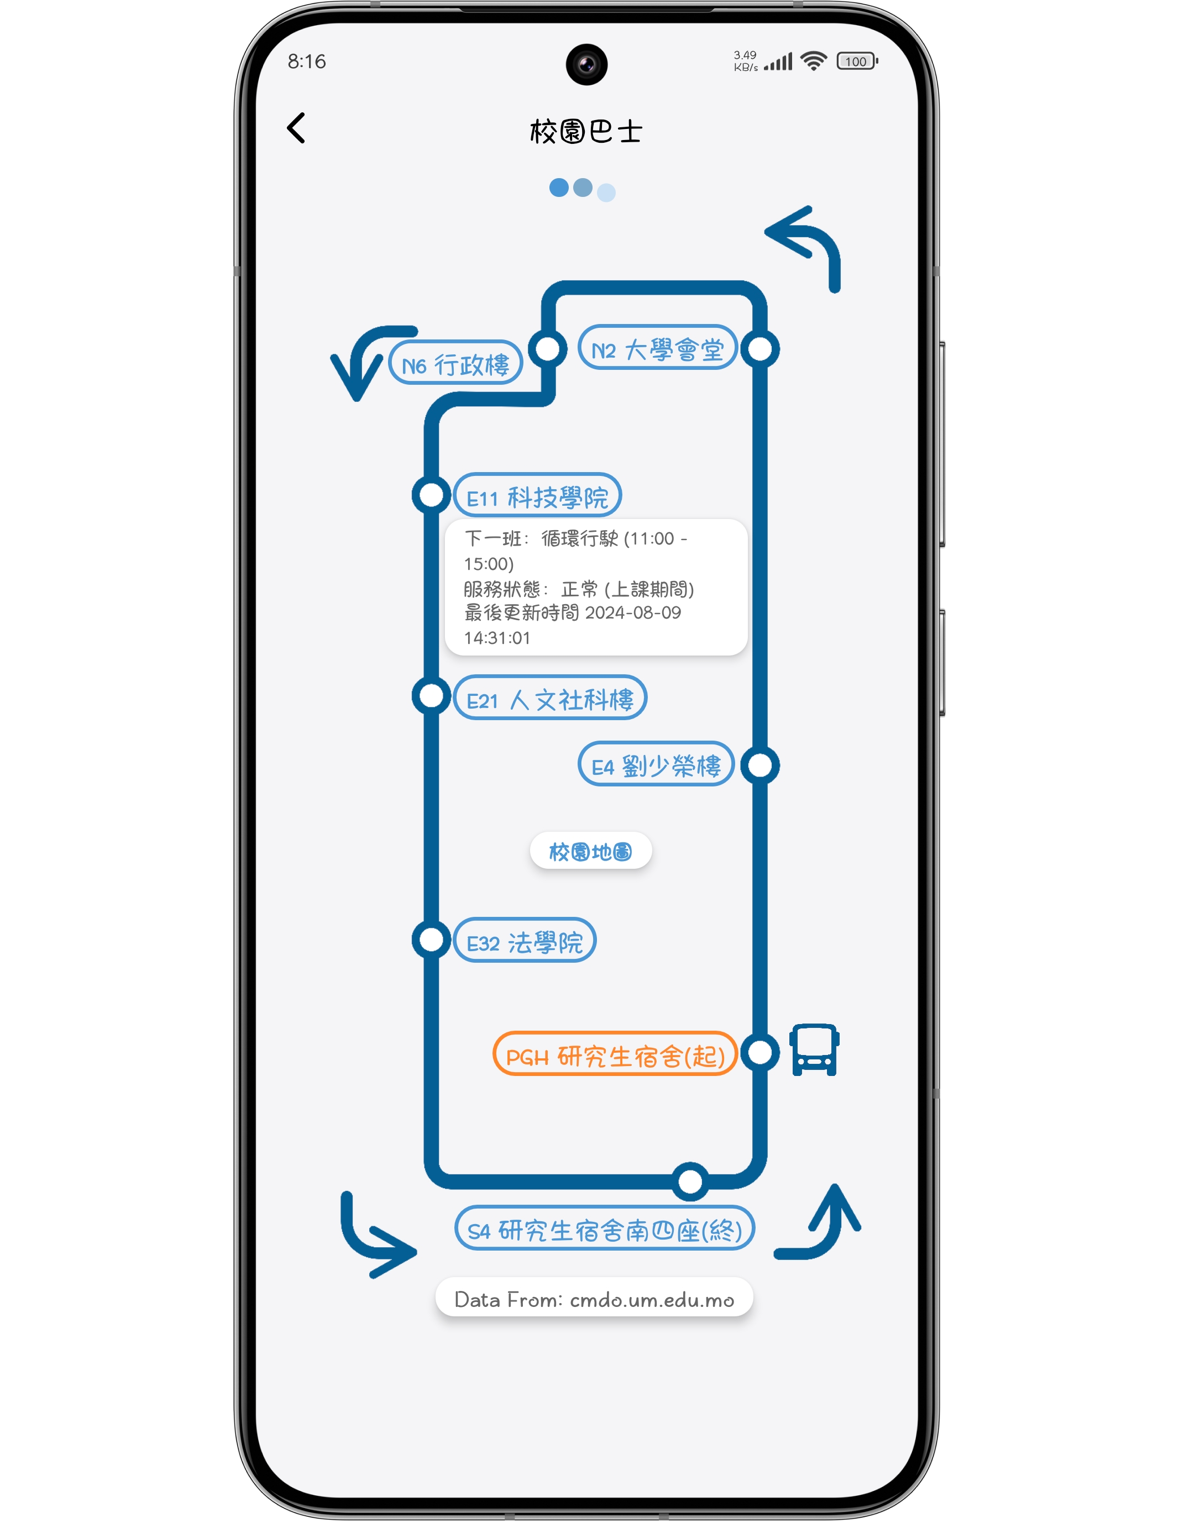
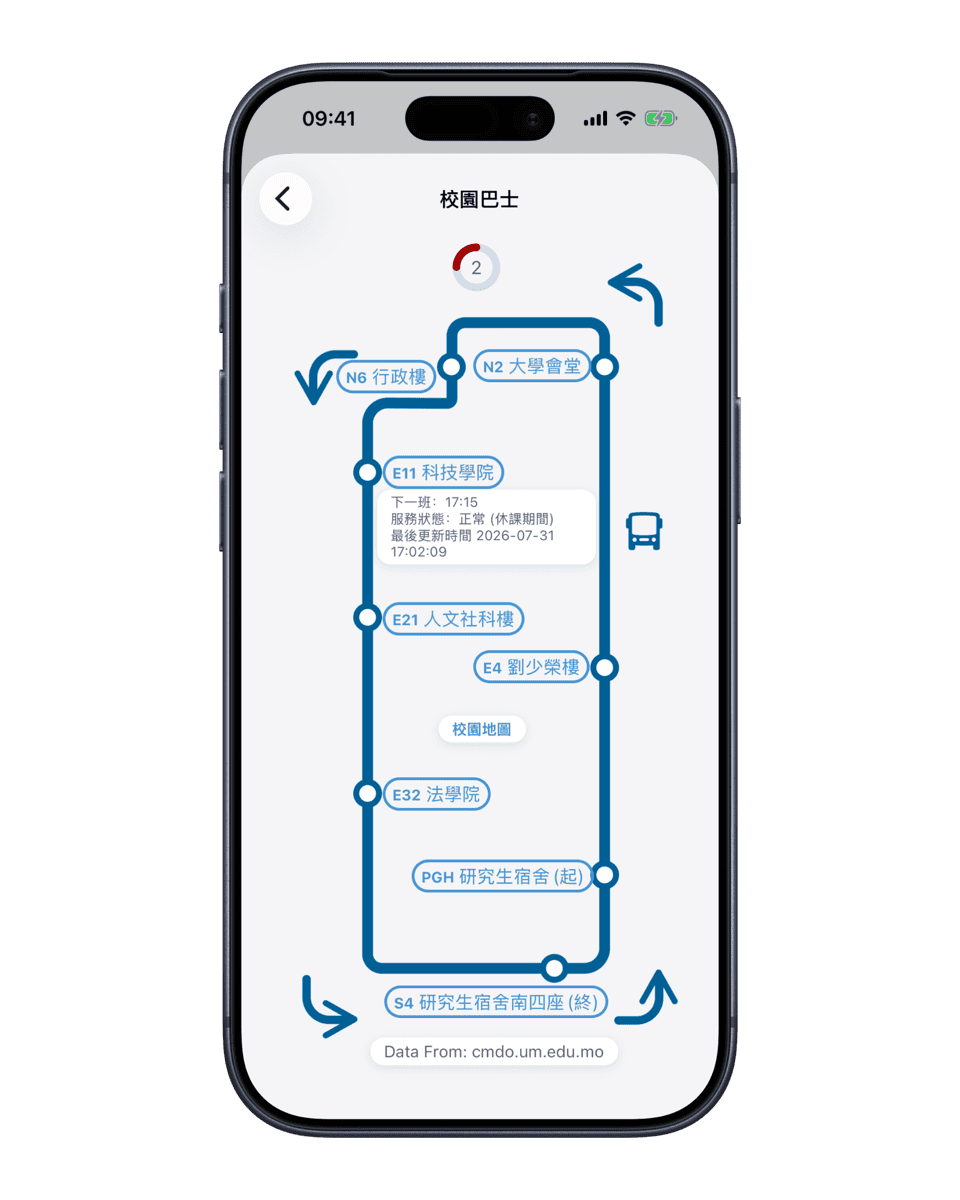
:sparkles: 更新首頁廣告圖片和翻譯文本，新增課程、功能和新聞模塊，並移除舊的手機圖片

Changed region(s): [[0.1875, 0.0, 0.8125, 1.0]]

diff --git a/components/limited/ark.js b/components/limited/ark.js
@@ -10,7 +10,7 @@ import themeImg from '../../public/img/theme_small.png';
 // import { Phone } from "./Phone";
 
 import { useTranslation } from "react-i18next";
-import phones from "../../public/img/home_page/advertisements/Phone.png";
+import home3 from "../../public/img/home_page/advertisements/Home3.png";
 import { downloadBtnData } from "./common_data/download_btn_data";
 import { useRouter } from "next/router";
 // import appleLogo from "../../public/img/home_page/company_logos";
@@ -35,9 +35,9 @@ const Ark = (props) => {
         <div
           className="absolute top-0 left-0 w-full h-full z-10 backdrop-blur-xl dark:backdrop-blur-[40px]
                       bg-gradient-to-tr from-white dark:from-[#171717] from-50% dark:from-55% dark:to-[#171717dd]" />
-        <Container className={"flex flex-wrap z-20"}>
+        <Container className={"grid grid-cols-1 min-[901px]:grid-cols-2 gap-x-8 z-20 items-center"}>
           {/* ARK介紹+下載按鈕 */}
-          <div className="flex min-[901px]:flex-row max-[900px]:flex-col items-center w-full min-[901px]:w-1/2 px-8 py-20">
+          <div className="flex min-[901px]:flex-row max-[900px]:flex-col items-center w-full min-w-0 px-8 py-20">
             <div className="min-[901px]:max-w-2xl mb-8">
               <div className="flex gap-4 items-center">
                 <h1 className="text-4xl font-bold leading-snug tracking-tight text-gray-800 lg:text-4xl lg:leading-tight xl:text-6xl xl:leading-tight dark:text-white">
@@ -105,14 +105,14 @@ const Ark = (props) => {
           </div>
 
           {/* 手機圖畫 */}
-          <div className="flex items-center justify-center w-full lg:w-1/2 max-[1300px]:hidden">
+          <div className="hidden min-[1301px]:flex items-center justify-end justify-self-end w-full pr-8">
             <Image
-              src={phones}
+              src={home3}
               height="auto"
               alt="tutorial"
-              className="block object-cover w-96 rounded-tl-lg rounded-tr-lg"
+              className="block object-contain w-[28rem] xl:w-[30rem] h-auto rounded-tl-lg rounded-tr-lg"
               placeholder="blur"
-              blurDataURL={phones.src} />
+              blurDataURL={home3.src} />
           </div>
         </Container>
       </div>

diff --git a/pages/index.js b/pages/index.js
@@ -10,9 +10,15 @@ import {
   LanguageIcon,
   UserIcon,
   PresentationChartLineIcon,
+  CalendarDaysIcon,
+  Squares2X2Icon,
+  NewspaperIcon,
 } from "@heroicons/react/24/solid";
 import BusImg from "../public/img/home_page/advertisements/Bus.png";
-import EventImg from "../public/img/home_page/advertisements/Club.png";
+import EventImg from "../public/img/home_page/advertisements/Home3.png";
+import CourseImg from "../public/img/home_page/advertisements/Course.png";
+import FeaturesImg from "../public/img/home_page/advertisements/Features.png";
+import NewsImg from "../public/img/home_page/advertisements/News.png";
 import Benefits from "../components/limited/benefits";
 import Footer from "../components/footer";
 import Cta from "../components/limited/cta";
@@ -72,8 +78,43 @@ const Home = () => {
           icon: <DevicePhoneMobileIcon />,
         },
       ],
-    }
-
+    },
+    {
+      title: t("Course & Schedule Sim"),
+      desc: t("CSSdesc"),
+      image: CourseImg,
+      bullets: [
+        {
+          title: t("CSSbullets1-title"),
+          desc: t("CSSbullets1-desc"),
+          icon: <CalendarDaysIcon />,
+        },
+      ],
+    },
+    {
+      title: t("All Features Hub"),
+      desc: t("AFHdesc"),
+      image: FeaturesImg,
+      bullets: [
+        {
+          title: t("AFHbullets1-title"),
+          desc: t("AFHbullets1-desc"),
+          icon: <Squares2X2Icon />,
+        },
+      ],
+    },
+    {
+      title: t("News & Events"),
+      desc: t("NEdesc"),
+      image: NewsImg,
+      bullets: [
+        {
+          title: t("NEbullets1-title"),
+          desc: t("NEbullets1-desc"),
+          icon: <NewspaperIcon />,
+        },
+      ],
+    },
   ]
 
   return (
